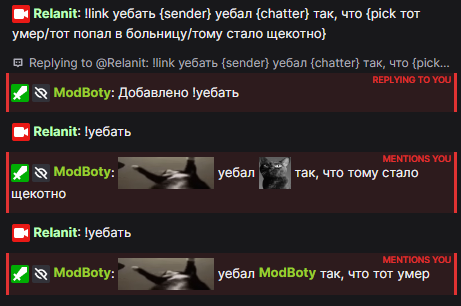
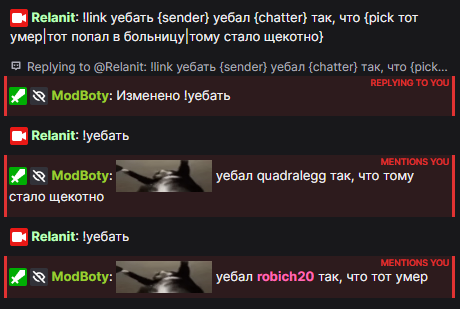
refactoring

diff --git a/docs/commands/variables.md b/docs/commands/variables.md
@@ -32,7 +32,7 @@ sidebar_position: 1
 <img src={require('@site/static/examples/commands/variables/randint.png').default} />
 
 ## {pick}
-При вызове команды переменная заменится на один из указанных вариантов, варианты перечисляются через `/`
+При вызове команды переменная заменится на один из указанных вариантов, варианты перечисляются через `|`
 <img src={require('@site/static/examples/commands/variables/pick.png').default} />
 
 Также можно указывать другие переменные в вариантах, кроме другого `{pick}`
